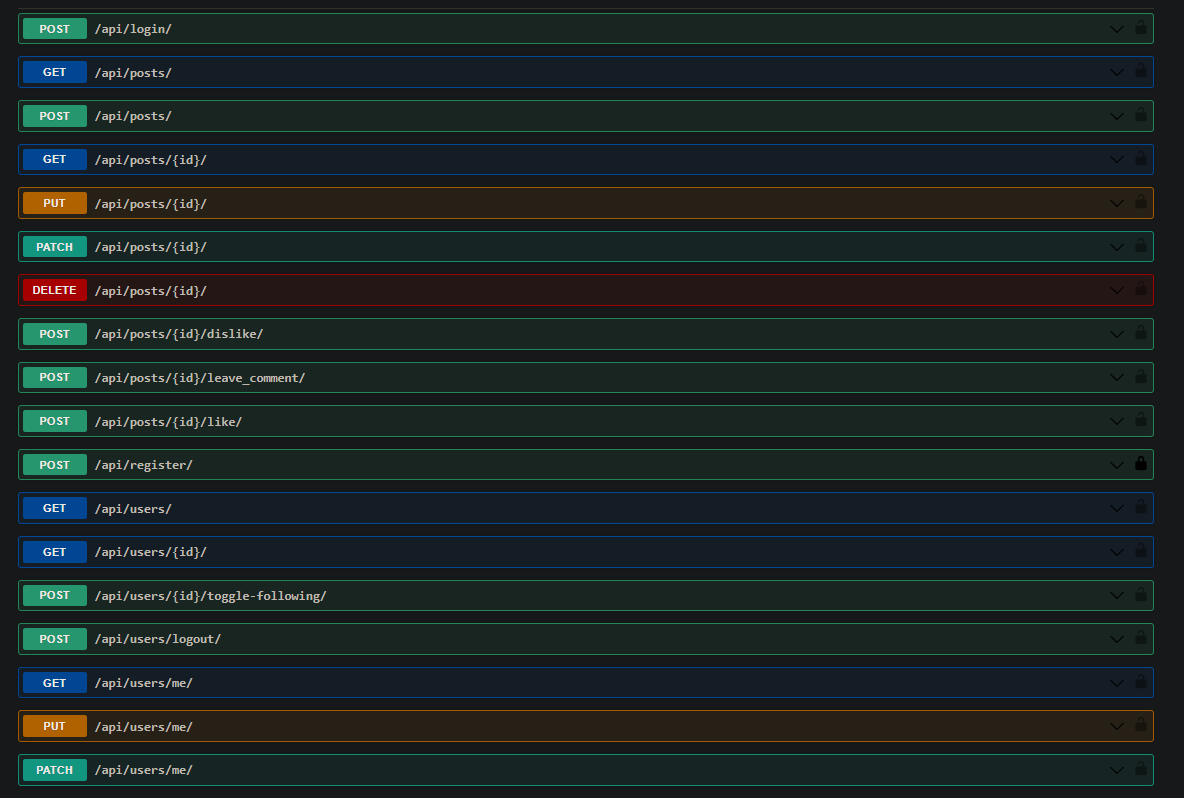
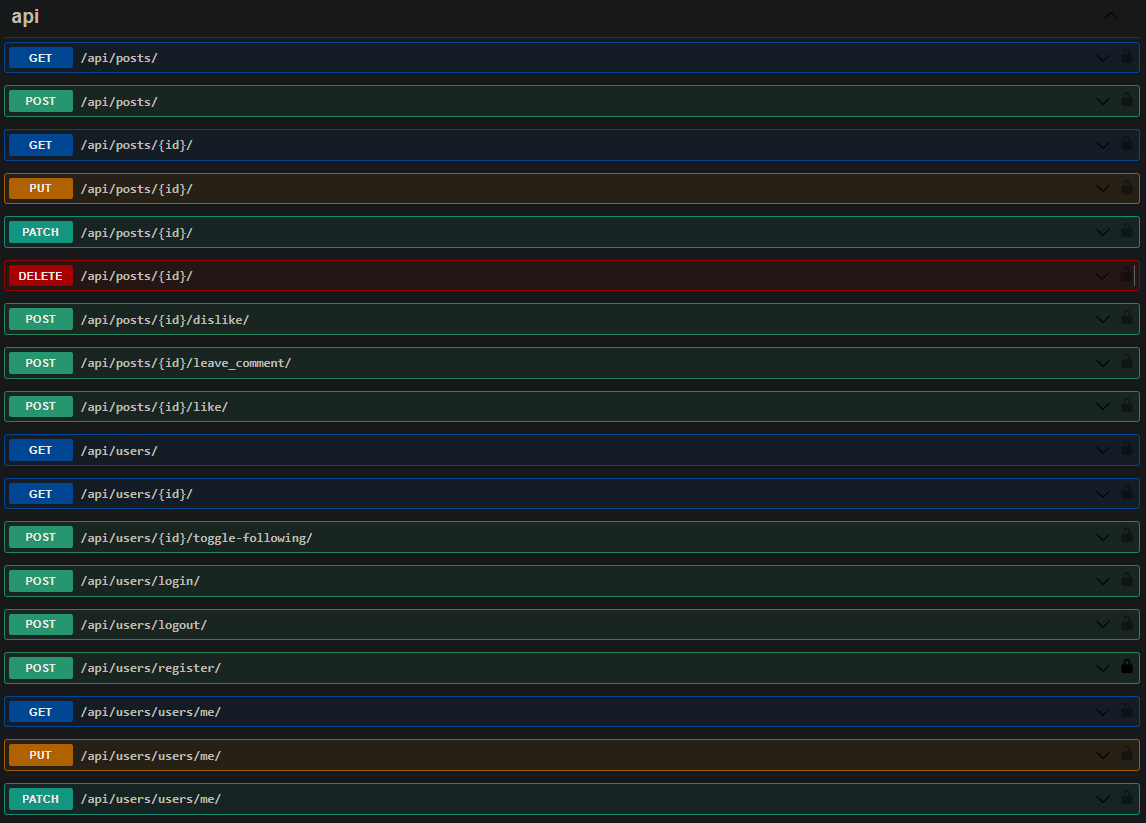
Change endpoints pathes & change screen to actual

Changed region(s): [[0.0, 0.0, 1.0, 0.9925]]

diff --git a/social_network_service/urls.py b/social_network_service/urls.py
@@ -31,7 +31,7 @@ urlpatterns = [
     ),
     path("admin/", admin.site.urls),
 
-    path("api/", include("user.urls", namespace="profile")),
-    path("api/", include("content.urls", namespace="post"))
+    path("api/users/", include("user.urls", namespace="profile")),
+    path("api/posts/", include("content.urls", namespace="post"))
 
 ] + static(settings.MEDIA_URL, document_root=settings.MEDIA_ROOT)

diff --git a/user/urls.py b/user/urls.py
@@ -4,7 +4,7 @@ from rest_framework import routers
 from user.views import CreateUserView, TokenCreateView, UserViewSet, UserManageView
 
 router = routers.DefaultRouter()
-router.register("users", UserViewSet)
+router.register("", UserViewSet)
 
 urlpatterns = [
     path("register/", CreateUserView.as_view(), name="create"),

diff --git a/content/urls.py b/content/urls.py
@@ -4,7 +4,7 @@ from rest_framework import routers
 from content.views import PostViewSet
 
 router = routers.DefaultRouter()
-router.register("posts", PostViewSet)
+router.register("", PostViewSet)
 
 urlpatterns = [
     path("", include(router.urls))
